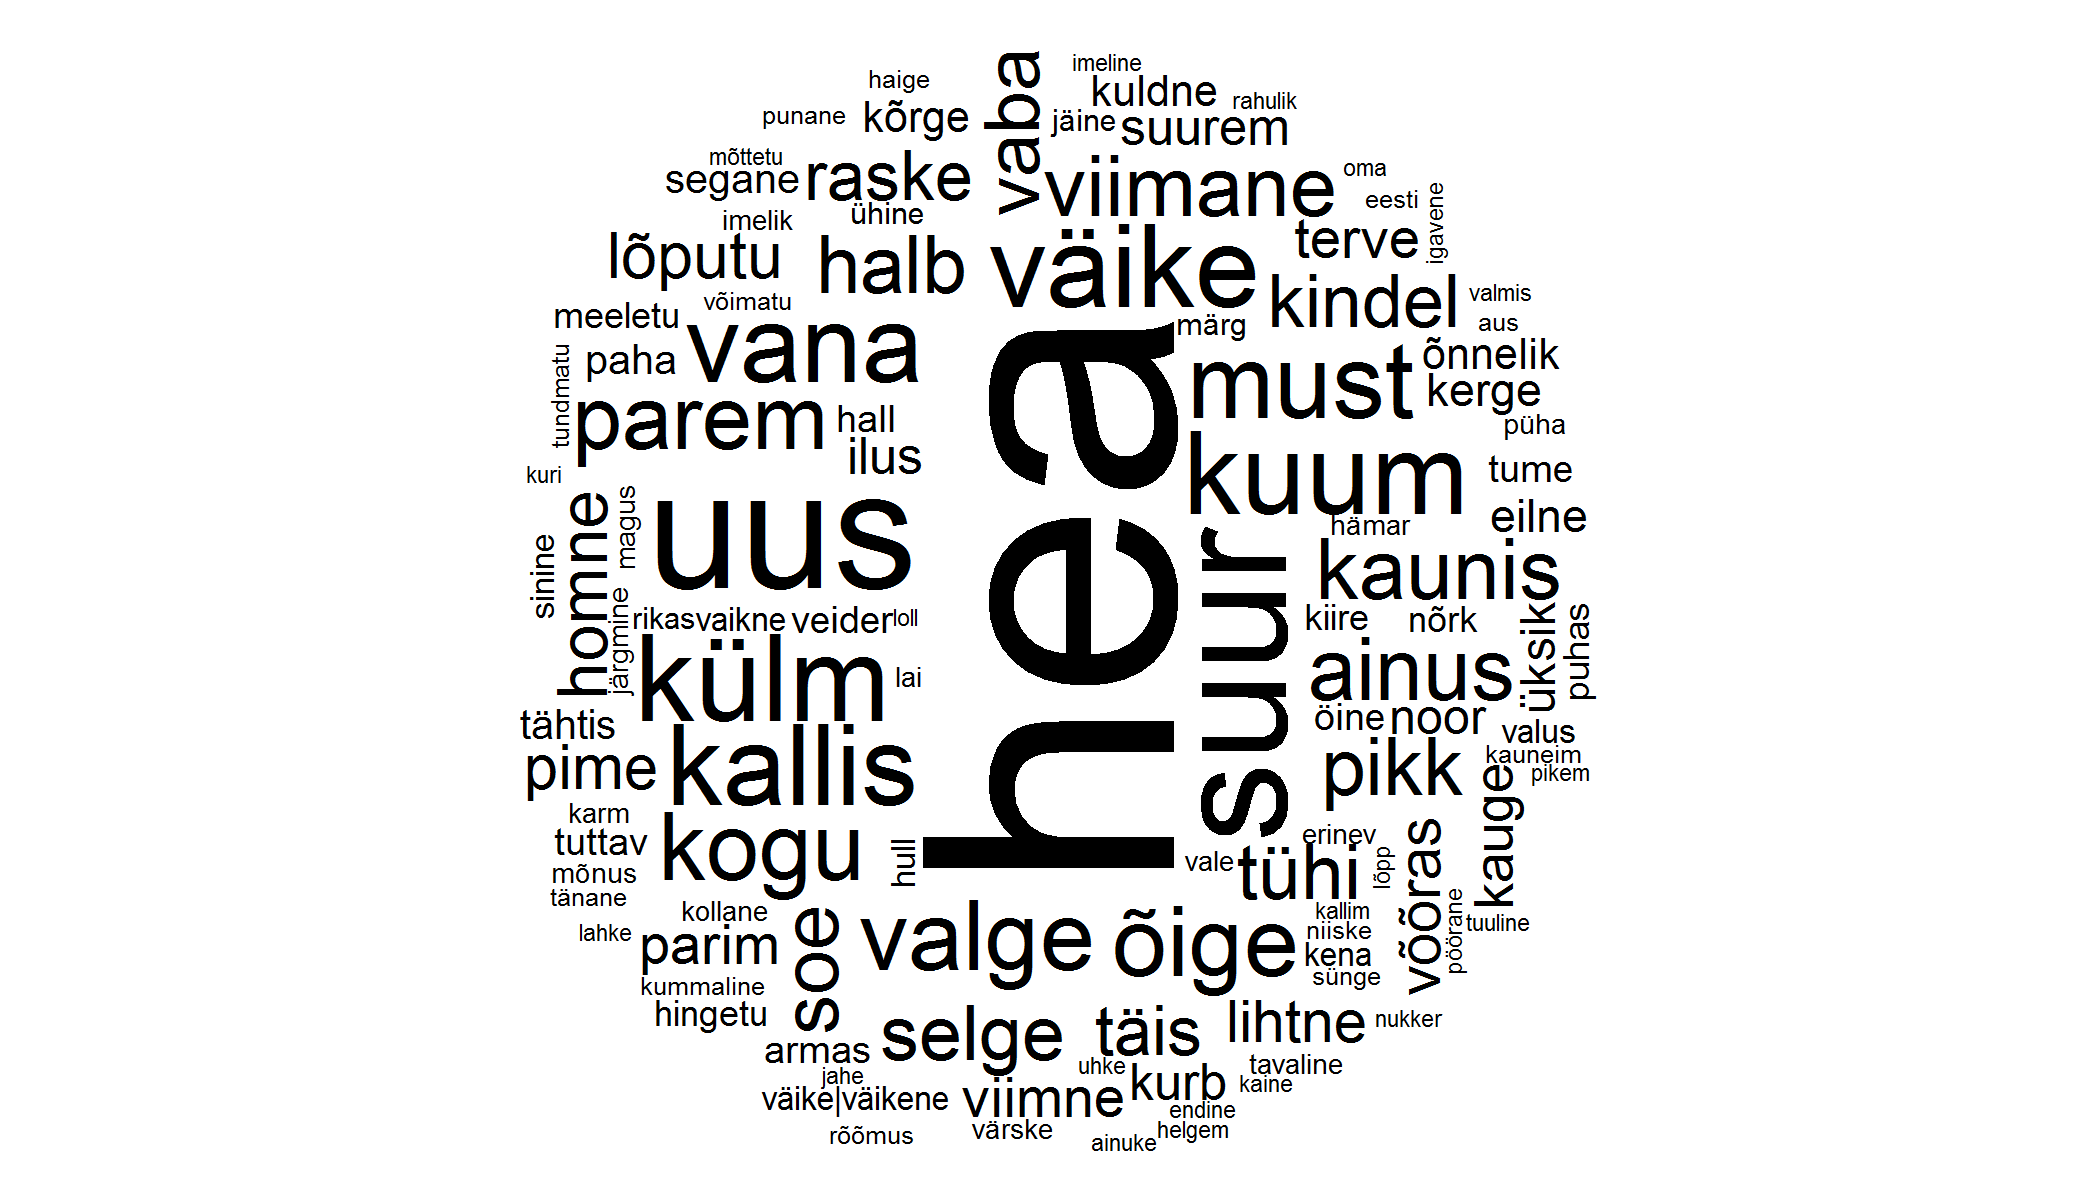
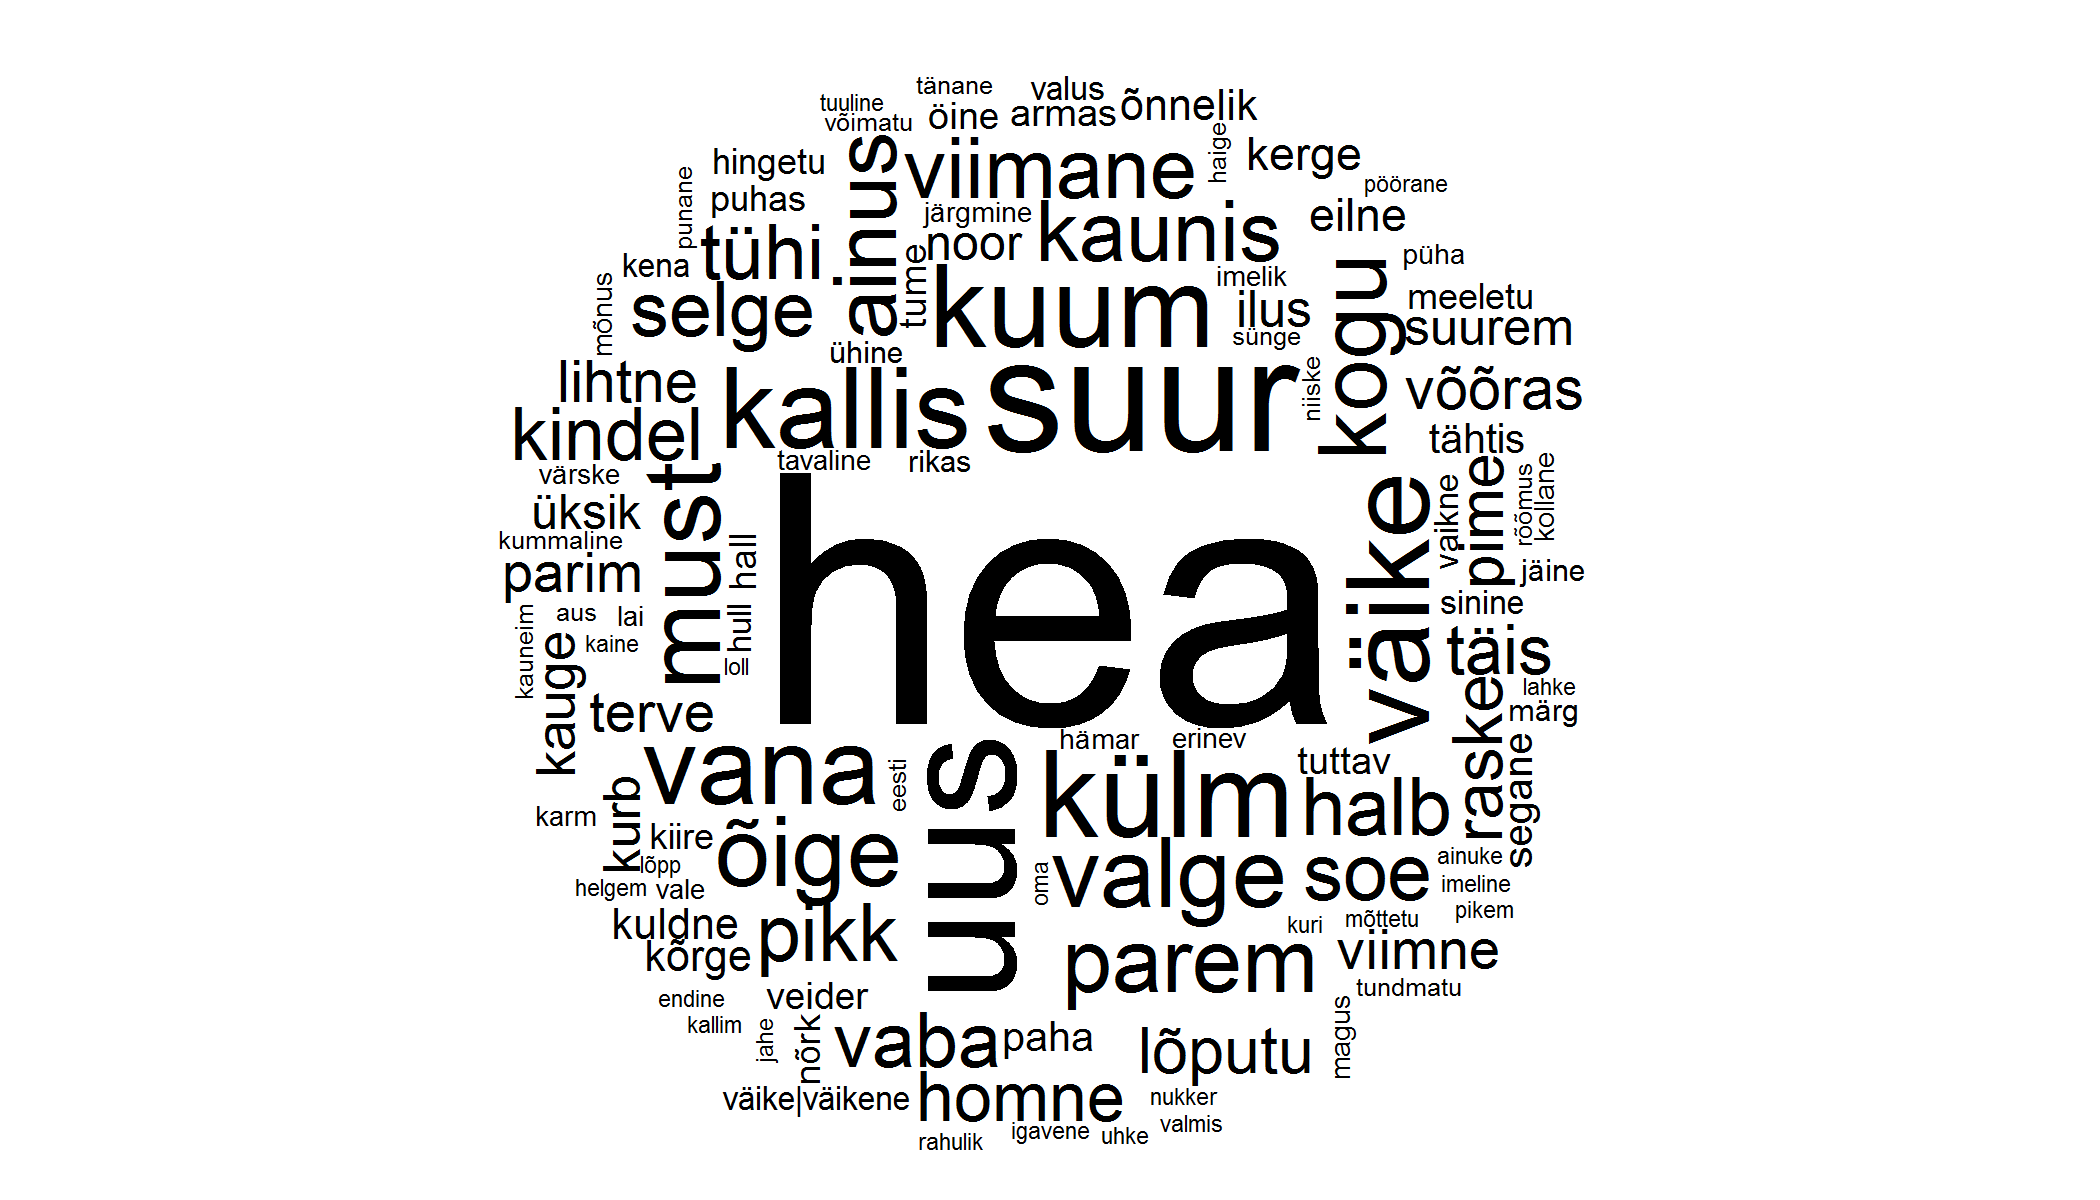
paranda sõnastust ja graafikuid

Changed region(s): [[0.2167, 0.0308, 0.7738, 0.9558]]

diff --git a/_posts/2016-07-15-eesti-muusika.md b/_posts/2016-07-15-eesti-muusika.md
@@ -1,0 +1,43 @@
+---
+title: "Eesti muusika ehk 21 aastat R2 aastahitte"
+author: "Toomas Eilat"
+date: "2016-07-15"
+layout: post
+---
+
+
+
+
+
+
+Raadio 2 on alates 1994. aastast korraldanud küsitluse populaarsemate Eesti laulude valimiseks. Kõik tulemused, kokku 21 aastat, on kättesaadavad veebilehelt [http://r2.err.ee/aastahitt/ajalugureg.php](http://r2.err.ee/aastahitt/ajalugureg.php). Need annavad hea ülevaate Eesti muusika lähiajaloost. Analüüsin pisut parimaid laule ja populaarsemaid artiste.
+
+Kokku on aastahittide tabelis __880__ lugu, millest omakorda 845 on unikaalset (osad lood on edetabelis mitmel aastal). Selleks, et pisut esitajatest ja lauludest sügavamale vaadata, on vaja ka laulude sõnu. Nende leidmiseks kasutasin veebilehte [http://sasslantis.ee/](http://sasslantis.ee/). Sõnad õnnestus mul kokku juurde lisada __495__ loole (59%).
+
+## Laulusõnad
+Selleks, et võtta kokku, millest populaarsemad laulud räägivad, koostasin eestikeelsete laulude sõnade esinemissagedusel põhinevad sõnapilved. Seejuures kasutasin ainult sõnade algvorme. Sõnakorduste vältimiseks (näit mõne loo refräänis), tegin sõnapilved selle järgi, mitmes loos mingi sõna esineb. Esimesel pildil on populaarsemad nimisõnad ja teisel omadussõnad.
+
+<img src="{{ site.url }}/img/eesti-muusika-sonapilv_nimisonad-1.png" style="display: block; margin: auto;" />
+<img src="{{ site.url }}/img/eesti-muusika-sonapilv_omadussonad-1.png" style="display: block; margin: auto;" />
+
+Järgmisel graafikul on võrreldud 20 populaarsemat nimi- omadus- ja tegusõnu kahel perioodi 1994-2005 ja 2006-2015.
+
+<img src="{{ site.url }}/img/eesti-muusika-slopegraph-1.png" style="display: block; margin: auto;" />
+
+## Erinevad sõnad lauludes
+Keskmiselt on ühes laulus 82 unikaalset sõna. Kõige suurema sõnavaraga paistavad silma hip-hop ja räpi lood. Esimesel kohal on __373__ erineva sõnaga Ä-Rühma Popmuusik ning unikaalsete sõnade poolest viimasel kohal Vaiko Epliku Moonaliisa. 
+
+<img src="{{ site.url }}/img/eesti-muusika-sonade_arv_laulus-1.png" style="display: block; margin: auto;" />
+
+## Artistid 
+Läbi R2 aastahiti ajaloo on selgelt kaks kõige populaarsemat artisti __Terminaator__ ja __Smilers__, kellel on vastavalt __43__ ja __41__ lugu edetabelis. Allolev heatmap annab ülevaate 25 populaarsema artisti karjääri kohta. Ka siin eristuvad need kaks kõige populaarsemat artisti, kelle lood on peaaegu katkematult aastahiti edetabelisse jõudnud. Alles viimastel aastatel on Terminaatori populaarsus vähenema hakanud. Teised artistid figureerivad edetaelis kõik oluliselt lühemal perioodil. 
+
+<img src="{{ site.url }}/img/eesti-muusika-top_artistid-1.png" style="display: block; margin: auto;" />
+
+Lisaks lugude arvule edetabelis vaatasin ka artistide poolt saadud häälte arvu kokku läbi ajaloo. Kuigi rohkem lugusid, tähendab ka rohkem hääli, siis mõnevõrra on pilt eelmisest heatmapist erinev. Üksikud ülipopulaarsed lood aitavad mõne artisti selles nimekirjas ettepoole. Ääremärkusena lisan, et kõige populaarsem lugu 4304 häälega on __Tanel Padar & The Sun - Võta Aega__.
+
+<img src="{{ site.url }}/img/eesti-muusika-artistide_haalte_arv-1.png" style="display: block; margin: auto;" />
+
+## Kuidas?
+Idee selleks analüüsiks andis blogipostitus [50 Years of Pop Music](http://kaylinwalker.com/50-years-of-pop-music/). Andmed aastahiti tulemuste kohta on kogutud R2 veebilehelt [http://r2.err.ee/aastahitt/ajalugureg.php](http://r2.err.ee/aastahitt/ajalugureg.php) ning laulusõnad pärinevad andmebaasist [http://sasslantis.ee/](http://sasslantis.ee/). Lisaks oma tavapärasele töövahendile R, kasutasin seekord tekstianalüüsiks esmakordselt ka Pythonit ja [Estnltk library't](http://estnltk.github.io/estnltk/1.4/index.html). 
+Analüüsi skript asub Githubis: [https://github.com/toomase/eesti_muusika](https://github.com/toomase/eesti_muusika).
